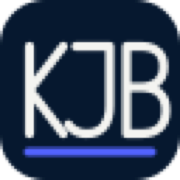
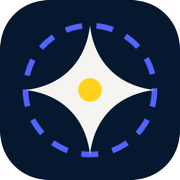
Introduce process star identity

diff --git a/index.html b/index.html
@@ -24,7 +24,7 @@
     <meta name="twitter:description" content="Industrial process models, digital twins, and engineering systems designed to make biomanufacturing scale." />
     <meta name="twitter:image" content="https://katharinabrenner.com/og-image.png" />
     <meta name="twitter:image:alt" content="Katharina Julia Brenner — Industrial processes engineered for scale." />
-    <link rel="icon" href="/favicon-kjb-v2.svg" type="image/svg+xml" />
+    <link rel="icon" href="/favicon-process-star.svg" type="image/svg+xml" />
     <link rel="apple-touch-icon" href="/apple-touch-icon.png" />
     <link rel="manifest" href="/site.webmanifest" />
     <link rel="preconnect" href="https://fonts.googleapis.com" />
@@ -102,7 +102,13 @@
 
     <header class="site-header" data-header>
       <a class="wordmark" href="/" aria-label="Katharina Julia Brenner, home">
-        <span class="wordmark-mark" aria-hidden="true"><span>KJB</span></span>
+        <span class="wordmark-symbol" aria-hidden="true">
+          <svg viewBox="0 0 48 48" focusable="false">
+            <circle class="wordmark-star-orbit" cx="24" cy="24" r="19.5" />
+            <path class="wordmark-star-shape" d="M24 5c1.2 10.7 8.3 17.8 19 19-10.7 1.2-17.8 8.3-19 19-1.2-10.7-8.3-17.8-19-19 10.7-1.2 17.8-8.3 19-19Z" />
+            <circle class="wordmark-star-core" cx="24" cy="24" r="3.2" />
+          </svg>
+        </span>
         <span class="wordmark-role">Process systems</span>
       </a>
       <nav class="desktop-nav" aria-label="Main navigation">
@@ -597,7 +603,13 @@
           <span class="orbit-word orbit-word-one">scientist</span>
           <span class="orbit-word orbit-word-two">engineer</span>
           <span class="orbit-word orbit-word-three">builder</span>
-          <div class="personal-monogram">KJB</div>
+          <div class="personal-symbol">
+            <svg viewBox="0 0 48 48" focusable="false">
+              <circle class="wordmark-star-orbit" cx="24" cy="24" r="19.5" />
+              <path class="wordmark-star-shape" d="M24 5c1.2 10.7 8.3 17.8 19 19-10.7 1.2-17.8 8.3-19 19-1.2-10.7-8.3-17.8-19-19 10.7-1.2 17.8-8.3 19-19Z" />
+              <circle class="wordmark-star-core" cx="24" cy="24" r="3.2" />
+            </svg>
+          </div>
         </div>
         <div class="personal-copy">
           <div class="section-index reveal">05 / Beyond the title</div>

diff --git a/src/styles.css b/src/styles.css
@@ -100,33 +100,39 @@ h3 {
   letter-spacing: 0.16em;
 }
 
-.wordmark-mark {
-  position: relative;
-  display: grid;
-  width: 62px;
+.wordmark-symbol {
+  display: block;
+  flex: 0 0 auto;
+  width: 36px;
   height: 36px;
-  color: var(--paper);
-  border-radius: 20px;
-  background: var(--ink);
-  place-items: center;
-  font-family: var(--serif);
-  font-size: 16px;
-  font-style: italic;
-  letter-spacing: 0.07em;
+  color: var(--ink);
+  transition: transform 420ms var(--ease-out);
 }
 
-.wordmark-mark::after {
-  position: absolute;
-  right: 15px;
-  bottom: 5px;
-  left: 15px;
-  height: 2px;
-  background: var(--signal);
-  content: "";
+.wordmark:hover .wordmark-symbol {
+  transform: rotate(12deg);
 }
 
-.wordmark-mark > span {
-  transform: translateY(-2px);
+.wordmark-symbol svg {
+  display: block;
+  width: 100%;
+  height: 100%;
+  overflow: visible;
+}
+
+.wordmark-star-orbit {
+  fill: none;
+  stroke: var(--coral);
+  stroke-width: 1.4;
+  stroke-dasharray: 5 4;
+}
+
+.wordmark-star-shape {
+  fill: currentColor;
+}
+
+.wordmark-star-core {
+  fill: var(--signal);
 }
 
 .desktop-nav {
@@ -1223,17 +1229,22 @@ h3 {
   background: linear-gradient(145deg, #203c98, #071a43);
 }
 
-.personal-monogram {
+.personal-symbol {
   position: absolute;
   z-index: 2;
   top: 50%;
   left: 50%;
-  font-family: var(--serif);
-  font-size: 64px;
-  font-style: italic;
-  font-weight: 300;
-  letter-spacing: -0.055em;
-  transform: translate(-54%, -47%);
+  width: 100px;
+  height: 100px;
+  color: var(--paper);
+  transform: translate(-50%, -50%);
+}
+
+.personal-symbol svg {
+  display: block;
+  width: 100%;
+  height: 100%;
+  overflow: visible;
 }
 
 .orbit-word {
@@ -1863,10 +1874,9 @@ button:focus-visible {
   gap: 11px;
 }
 
-.wordmark-mark {
-  width: 64px;
-  height: 38px;
-  box-shadow: inset 0 0 0 1px rgba(244, 244, 241, 0.2);
+.wordmark-symbol {
+  width: 36px;
+  height: 36px;
 }
 
 .wordmark-role {
@@ -2757,9 +2767,8 @@ button:focus-visible {
     backdrop-filter: none;
   }
 
-  body.menu-open .wordmark-mark {
-    color: var(--ink);
-    background: var(--paper);
+  body.menu-open .wordmark-symbol {
+    color: var(--paper);
   }
 
   body.menu-open .menu-toggle {

diff --git a/approach/index.html b/approach/index.html
@@ -22,7 +22,7 @@
     <meta name="twitter:title" content="Industrial Bioengineering Approach | Katharina Julia Brenner" />
     <meta name="twitter:description" content="A whole-system approach connecting process models, facility infrastructure, digital tools, and engineering decisions." />
     <meta name="twitter:image" content="https://katharinabrenner.com/og-image.png" />
-    <link rel="icon" href="/favicon-kjb-v2.svg" type="image/svg+xml" />
+    <link rel="icon" href="/favicon-process-star.svg" type="image/svg+xml" />
     <link rel="apple-touch-icon" href="/apple-touch-icon.png" />
     <link rel="manifest" href="/site.webmanifest" />
     <link rel="preconnect" href="https://fonts.googleapis.com" />
@@ -78,7 +78,13 @@
       <section class="personal section-pad" aria-labelledby="personal-title">
         <div class="personal-orbit" aria-hidden="true">
           <span class="orbit-word orbit-word-one">scientist</span><span class="orbit-word orbit-word-two">engineer</span><span class="orbit-word orbit-word-three">builder</span>
-          <div class="personal-monogram">KJB</div>
+          <div class="personal-symbol">
+            <svg viewBox="0 0 48 48" focusable="false">
+              <circle class="wordmark-star-orbit" cx="24" cy="24" r="19.5" />
+              <path class="wordmark-star-shape" d="M24 5c1.2 10.7 8.3 17.8 19 19-10.7 1.2-17.8 8.3-19 19-1.2-10.7-8.3-17.8-19-19 10.7-1.2 17.8-8.3 19-19Z" />
+              <circle class="wordmark-star-core" cx="24" cy="24" r="3.2" />
+            </svg>
+          </div>
         </div>
         <div class="personal-copy">
           <div class="section-index reveal">Beyond the title</div>

diff --git a/src/page.js b/src/page.js
@@ -27,7 +27,13 @@ const mobileNavigation = [
 document.querySelector("[data-shell-header]").outerHTML = `
   <header class="site-header" data-header>
     <a class="wordmark" href="/" aria-label="Katharina Julia Brenner, home">
-      <span class="wordmark-mark" aria-hidden="true"><span>KJB</span></span>
+      <span class="wordmark-symbol" aria-hidden="true">
+        <svg viewBox="0 0 48 48" focusable="false">
+          <circle class="wordmark-star-orbit" cx="24" cy="24" r="19.5" />
+          <path class="wordmark-star-shape" d="M24 5c1.2 10.7 8.3 17.8 19 19-10.7 1.2-17.8 8.3-19 19-1.2-10.7-8.3-17.8-19-19 10.7-1.2 17.8-8.3 19-19Z" />
+          <circle class="wordmark-star-core" cx="24" cy="24" r="3.2" />
+        </svg>
+      </span>
       <span class="wordmark-role">Process systems</span>
     </a>
     <nav class="desktop-nav" aria-label="Main navigation">${navigation}</nav>

diff --git a/publications/index.html b/publications/index.html
@@ -22,7 +22,7 @@
     <meta name="twitter:title" content="Bioengineering Publications | Katharina Julia Brenner" />
     <meta name="twitter:description" content="Industrial process architecture, bioreactor systems, cultured meat manufacturing, and scalable biomanufacturing." />
     <meta name="twitter:image" content="https://katharinabrenner.com/og-image.png" />
-    <link rel="icon" href="/favicon-kjb-v2.svg" type="image/svg+xml" />
+    <link rel="icon" href="/favicon-process-star.svg" type="image/svg+xml" />
     <link rel="apple-touch-icon" href="/apple-touch-icon.png" />
     <link rel="manifest" href="/site.webmanifest" />
     <link rel="preconnect" href="https://fonts.googleapis.com" />

diff --git a/contact/index.html b/contact/index.html
@@ -22,7 +22,7 @@
     <meta name="twitter:title" content="Contact Katharina Julia Brenner | Industrial Bioengineering" />
     <meta name="twitter:description" content="Industrial process modeling, biomanufacturing, digital twins, scale-up, and research collaboration." />
     <meta name="twitter:image" content="https://katharinabrenner.com/og-image.png" />
-    <link rel="icon" href="/favicon-kjb-v2.svg" type="image/svg+xml" />
+    <link rel="icon" href="/favicon-process-star.svg" type="image/svg+xml" />
     <link rel="apple-touch-icon" href="/apple-touch-icon.png" />
     <link rel="manifest" href="/site.webmanifest" />
     <link rel="preconnect" href="https://fonts.googleapis.com" />

diff --git a/open-source/index.html b/open-source/index.html
@@ -22,7 +22,7 @@
     <meta name="twitter:title" content="Open-Source Process Models | Katharina Julia Brenner" />
     <meta name="twitter:description" content="Public code for industrial bioprocess design, scale-up, digital twins, techno-economics, and research." />
     <meta name="twitter:image" content="https://katharinabrenner.com/og-image.png" />
-    <link rel="icon" href="/favicon-kjb-v2.svg" type="image/svg+xml" />
+    <link rel="icon" href="/favicon-process-star.svg" type="image/svg+xml" />
     <link rel="apple-touch-icon" href="/apple-touch-icon.png" />
     <link rel="manifest" href="/site.webmanifest" />
     <link rel="preconnect" href="https://fonts.googleapis.com" />

diff --git a/work/index.html b/work/index.html
@@ -22,7 +22,7 @@
     <meta name="twitter:title" content="Industrial Process Modeling Projects | Katharina Julia Brenner" />
     <meta name="twitter:description" content="Full-facility process models, biomanufacturing digital twins, engineering software, and AI." />
     <meta name="twitter:image" content="https://katharinabrenner.com/og-image.png" />
-    <link rel="icon" href="/favicon-kjb-v2.svg" type="image/svg+xml" />
+    <link rel="icon" href="/favicon-process-star.svg" type="image/svg+xml" />
     <link rel="apple-touch-icon" href="/apple-touch-icon.png" />
     <link rel="manifest" href="/site.webmanifest" />
     <link rel="preconnect" href="https://fonts.googleapis.com" />

diff --git a/public/404.html b/public/404.html
@@ -5,7 +5,7 @@
     <meta name="viewport" content="width=device-width, initial-scale=1.0" />
     <meta name="theme-color" content="#06182f" />
     <meta name="robots" content="noindex, follow" />
-    <link rel="icon" href="/favicon-kjb-v2.svg" type="image/svg+xml" />
+    <link rel="icon" href="/favicon-process-star.svg" type="image/svg+xml" />
     <title>Page not found | Katharina Julia Brenner</title>
     <style>
       :root { color-scheme: dark; font-family: Arial, sans-serif; background: #06182f; color: #f4f4f1; }
